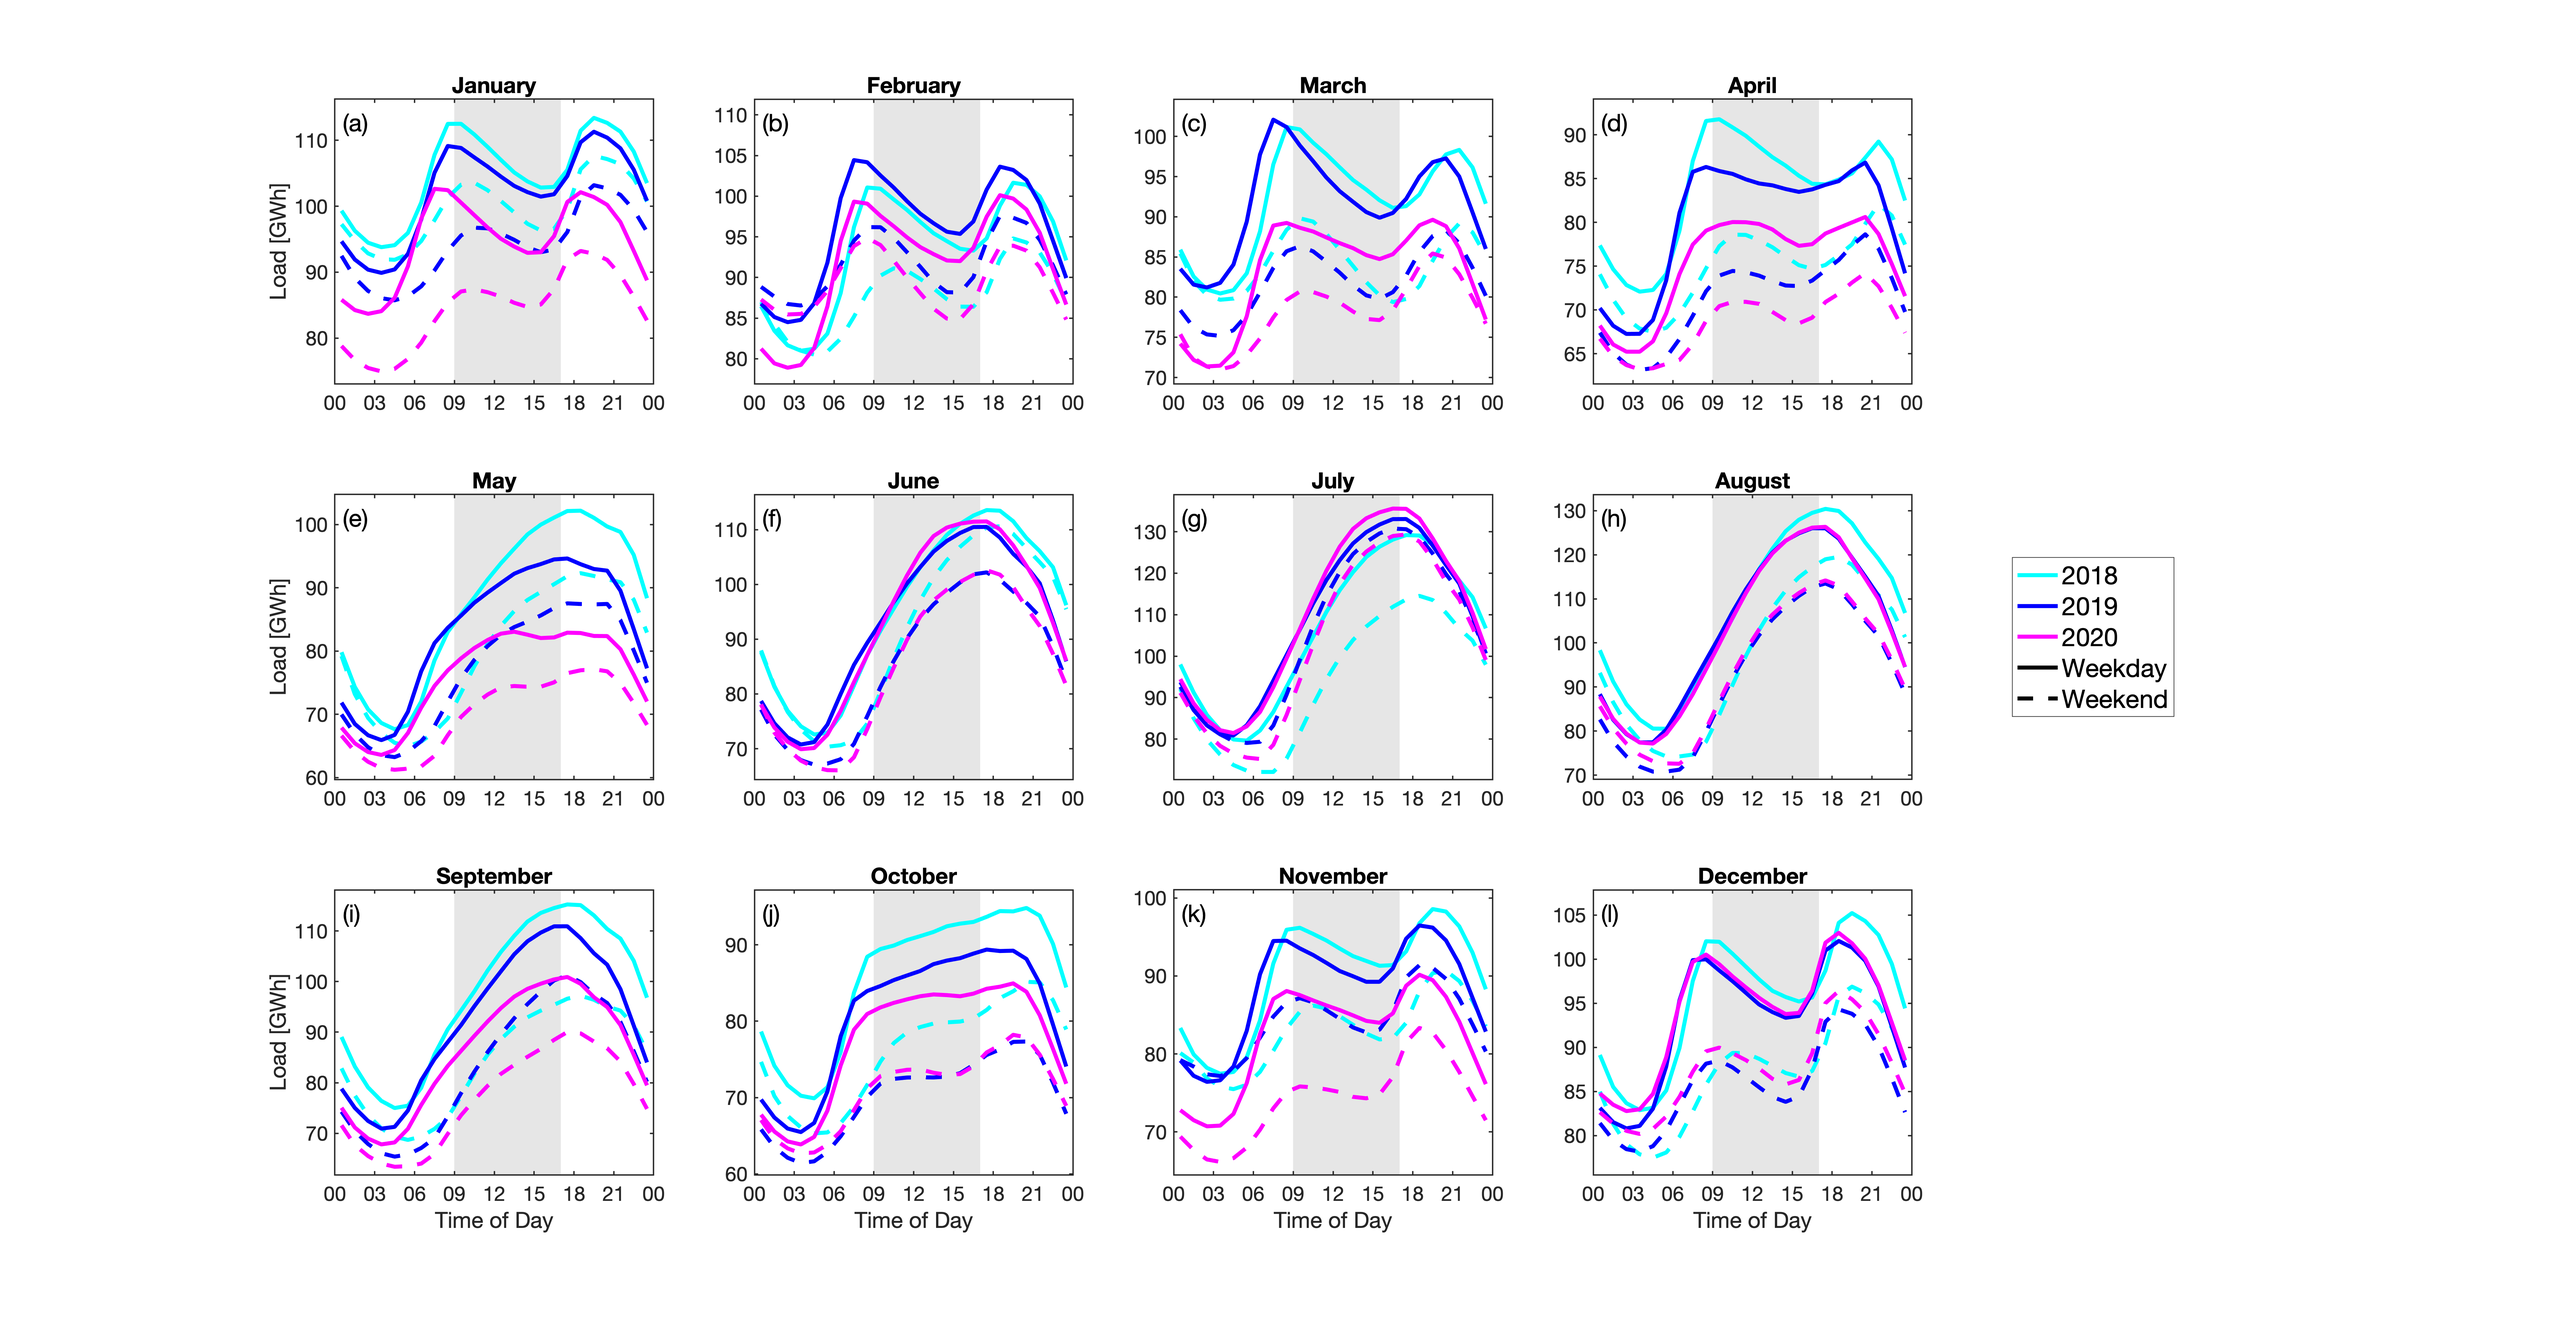
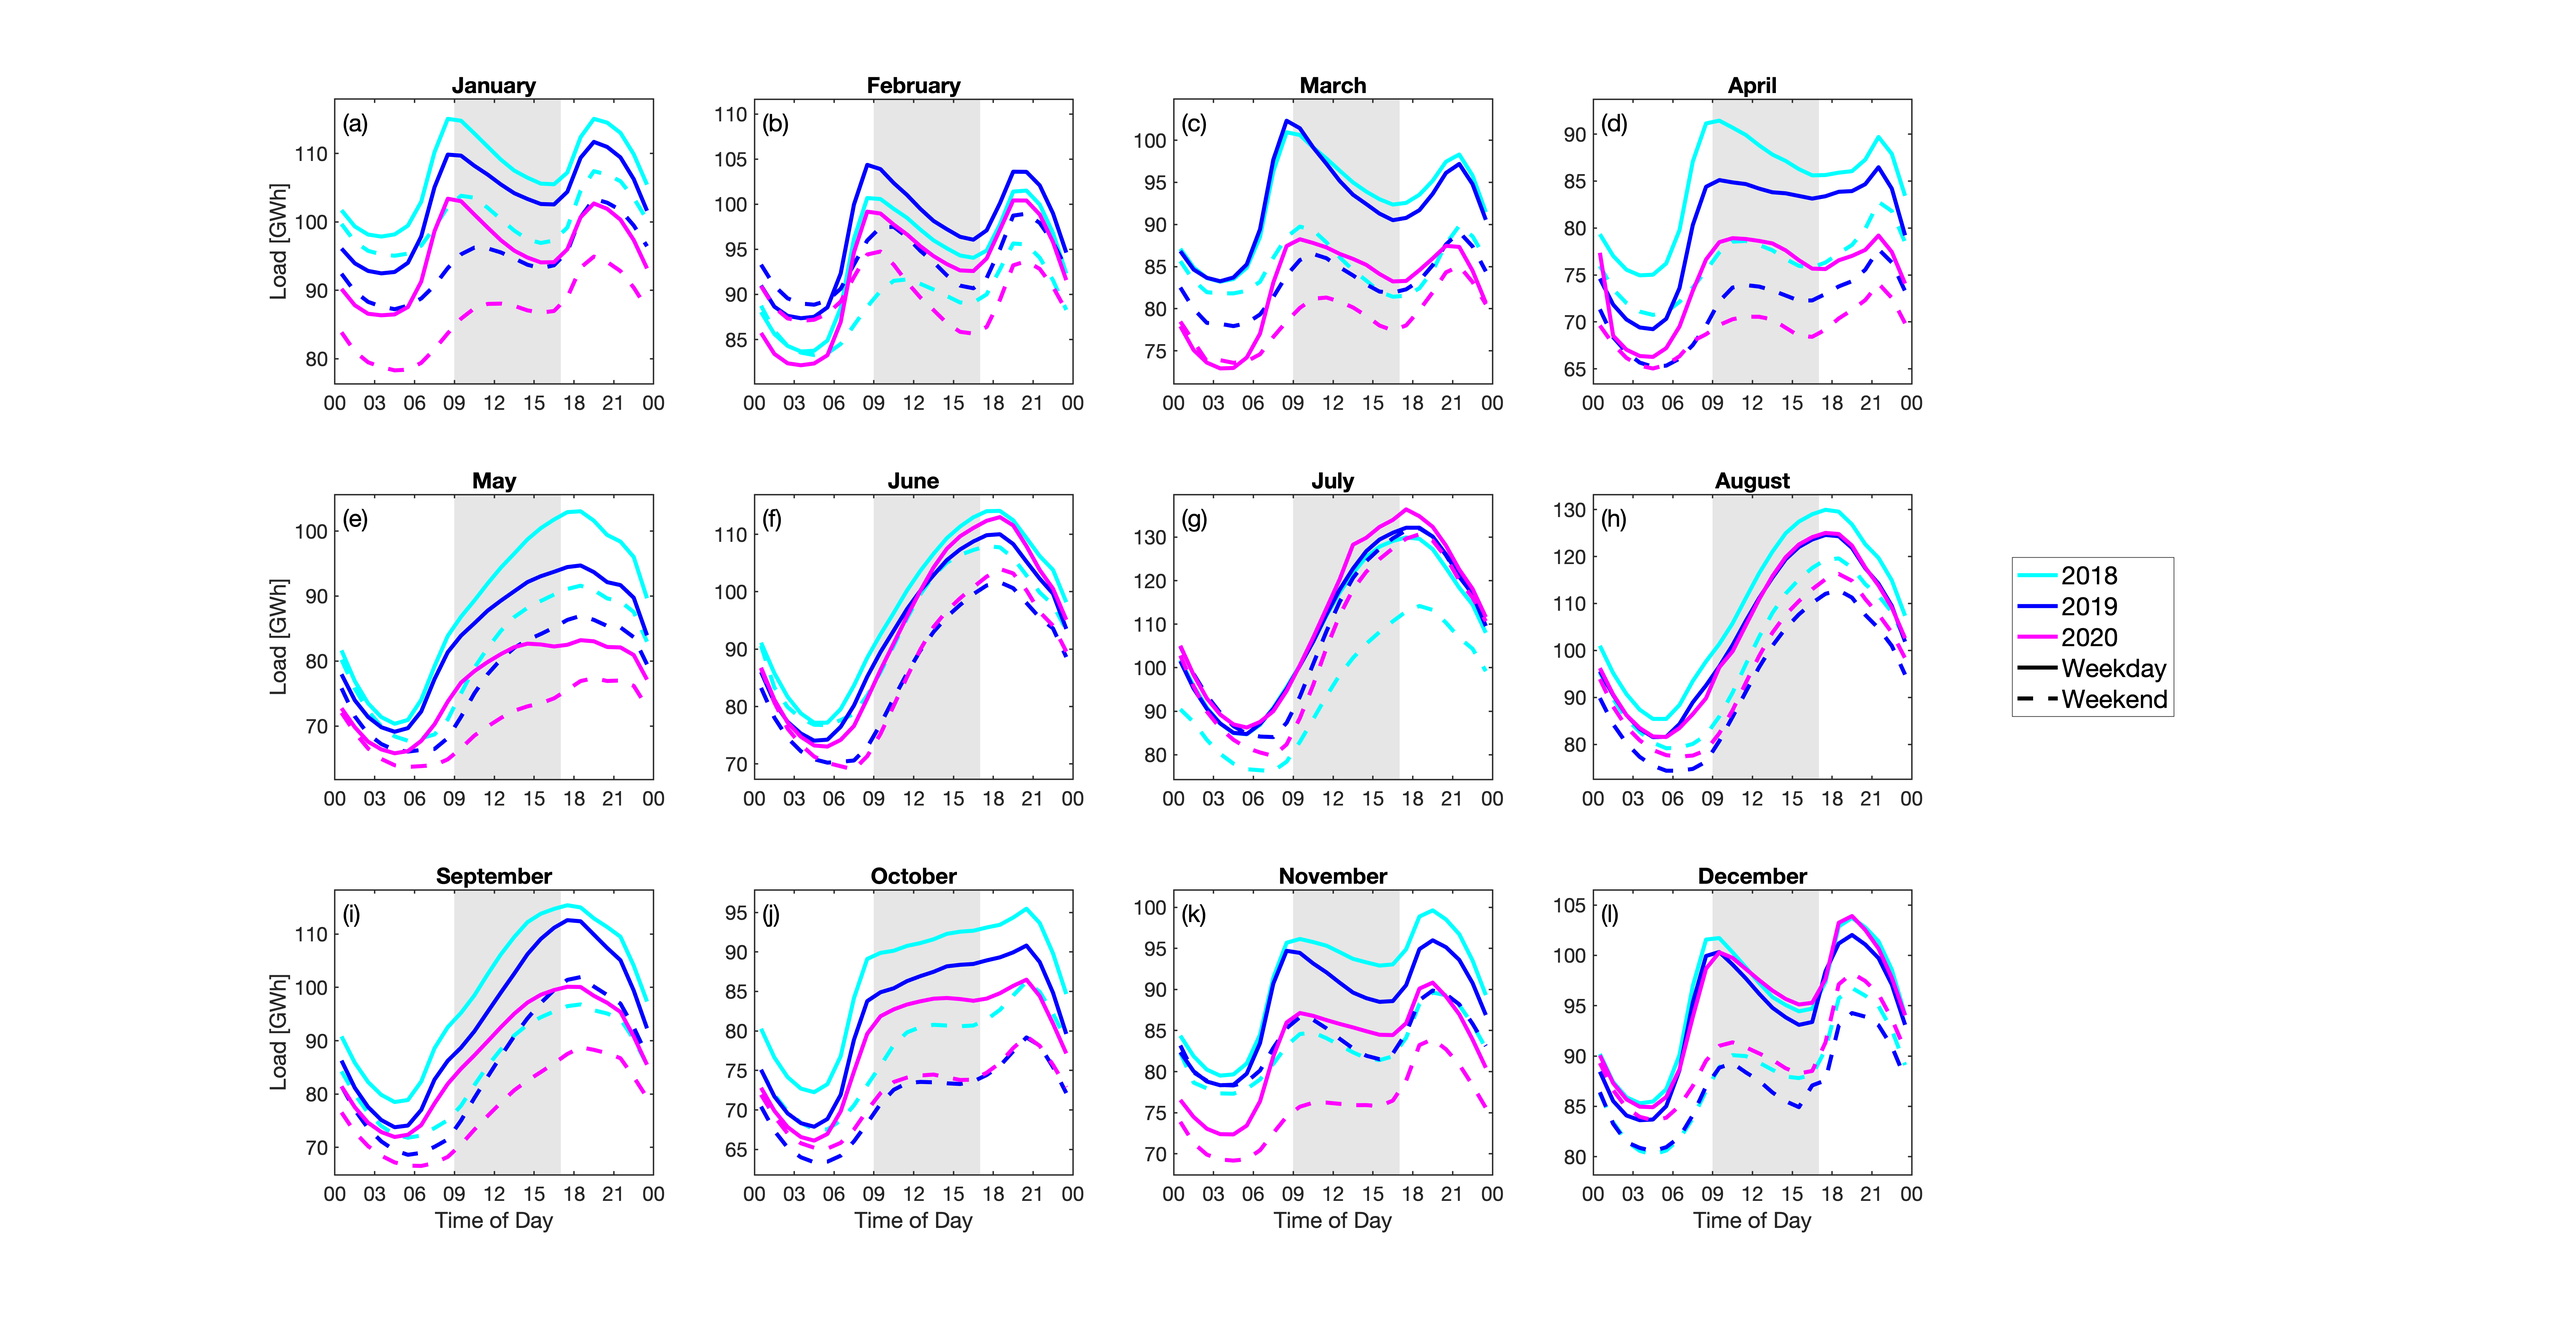
Bug fix
Fixed a bug associated with the revised data structure for the load data.

diff --git a/figures/Figure_5_BA_Load_Profiles.m b/figures/Figure_5_BA_Load_Profiles.m
@@ -20,7 +20,7 @@ plot_images = 1;
 save_images = 1;
 
 % Choose which BA to process and plot:
-ba_to_plot = 1; % (1 = PJM, 2 = CISO, 3 = NYIS)
+ba_to_plot = 3; % (1 = PJM, 2 = CISO, 3 = NYIS)
 
 % Set the base data input and output directories and the image output directory:
 data_directory = '/Users/burl878/OneDrive - PNNL/Documents/Papers/2021_Burleyson_et_al/burleyson-etal_2021_applied_energy_data/';
@@ -63,13 +63,13 @@ if process_data == 1
               for hour = 0:1:23
                   Hour_Subset = Weekday_Subset(find(Weekday_Subset(:,5) == hour),:);
                   if isempty(Hour_Subset) == 0
-                     Weekday_Mean(counter,hour+1) = nanmean(Hour_Subset(:,7));
+                     Weekday_Mean(counter,hour+1) = nanmean(Hour_Subset(:,6));
                   else
                      Weekday_Mean(counter,hour+1) = NaN.*0;
                   end
                   Hour_Subset = Weekend_Subset(find(Weekend_Subset(:,5) == hour),:);
                   if isempty(Hour_Subset) == 0
-                     Weekend_Mean(counter,hour+1) = nanmean(Hour_Subset(:,7));
+                     Weekend_Mean(counter,hour+1) = nanmean(Hour_Subset(:,6));
                   else
                      Weekend_Mean(counter,hour+1) = NaN.*0;
                   end
@@ -93,6 +93,7 @@ if process_data == 1
    end
    clear Data
 else
+   % If the pre-processing flag is turned off then just read in the results that you have previously processed:
    if ba_to_plot == 1
       load([data_directory,'output_data/Figure_5_',BA_Code,'_BA_Load_Profiles.mat']);
    elseif ba_to_plot == 2
